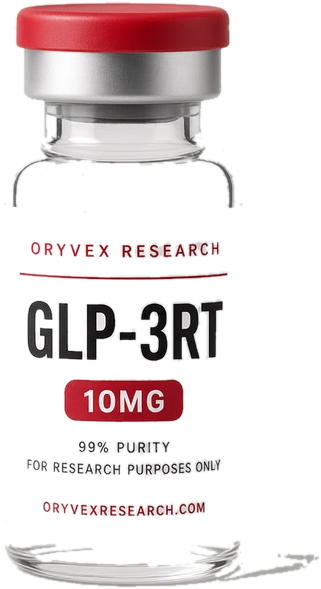
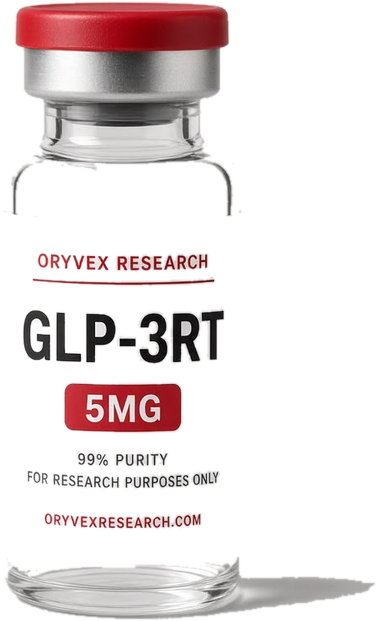
Correct the strength on 20 product labels
Re-rendered set: every label now prints a size the product is actually sold in,
matching the first entry of its price ladder. Adamax also gains a photo, so all
47 SKUs are on the current vial design.

  adamax 5MG · ahk-cu 100MG · cjc-1295-no-dac 5MG · dsip 10MG · epithalon 10MG
  foxo4-dri 10MG · ghk-cu 50MG · glow 70MG · glp-2 10MG · glp-3rt 5MG
  glutathione 600MG · igf1-lr3 1MG · ipamorelin 10MG · kisspeptin 10MG
  klow 80MG · kpv 10MG · n-acetyl-epitalon 5MG · nad-plus 500MG · peg-mgf 2MG
  wolverine-blend 5MG/5MG

Also: a missing source file is no longer reported as MISSING when the cut-out
PNG already exists. WhatsApp download folders get cleared, but the PNGs under
static/images/vials/ are the committed asset — re-running the script should not
imply those products are broken.

Changed region(s): [[0.0, 0.3973, 0.9969, 1.0], [0.0312, 0.0, 0.7165, 0.3667], [0.6542, 0.275, 0.7477, 0.3667]]

diff --git a/scripts/import_photos.py b/scripts/import_photos.py
@@ -29,38 +29,20 @@ MAPPING = {
     # red pumps on the mist applicators, identical label geometry throughout.
     "WhatsApp Unknown 2026-09-08 at 07.41.28/WhatsApp Image 2026-09-08 at 07.39.14.jpeg": "5-amino-1mq",
     "WhatsApp Unknown 2026-09-08 at 07.41.28/WhatsApp Image 2026-09-08 at 07.39.15.jpeg": "bpc-157",
-    "WhatsApp Unknown 2026-09-08 at 07.41.28/WhatsApp Image 2026-09-08 at 07.39.16.jpeg": "ahk-cu",
     "WhatsApp Unknown 2026-09-08 at 07.41.28/WhatsApp Image 2026-09-08 at 07.39.17.jpeg": "ara-290",
     "WhatsApp Unknown 2026-09-08 at 07.41.28/WhatsApp Image 2026-09-08 at 07.39.18.jpeg": "bacteriostatic-water",
     "WhatsApp Unknown 2026-09-08 at 07.41.28/WhatsApp Image 2026-09-08 at 07.39.19.jpeg": "bpc-157-mist-applicator",
-    "WhatsApp Unknown 2026-09-08 at 07.41.28/WhatsApp Image 2026-09-08 at 07.39.20 (1).jpeg": "cjc-1295-no-dac",
     "WhatsApp Unknown 2026-09-08 at 07.41.28/WhatsApp Image 2026-09-08 at 07.39.20 (2).jpeg": "cjc-1295-ipamorelin",
     "WhatsApp Unknown 2026-09-08 at 07.41.28/WhatsApp Image 2026-09-08 at 07.39.20.jpeg": "cagrilintide",
-    "WhatsApp Unknown 2026-09-08 at 07.41.28/WhatsApp Image 2026-09-08 at 07.39.21 (1).jpeg": "foxo4-dri",
-    "WhatsApp Unknown 2026-09-08 at 07.41.28/WhatsApp Image 2026-09-08 at 07.39.21 (2).jpeg": "ghk-cu",
-    "WhatsApp Unknown 2026-09-08 at 07.41.28/WhatsApp Image 2026-09-08 at 07.39.21 (3).jpeg": "glow",
-    "WhatsApp Unknown 2026-09-08 at 07.41.28/WhatsApp Image 2026-09-08 at 07.39.21.jpeg": "epithalon",
-    "WhatsApp Unknown 2026-09-08 at 07.41.28/WhatsApp Image 2026-09-08 at 07.39.22 (1).jpeg": "glp-2",
-    "WhatsApp Unknown 2026-09-08 at 07.41.28/WhatsApp Image 2026-09-08 at 07.39.22 (2).jpeg": "glp-3rt",
-    "WhatsApp Unknown 2026-09-08 at 07.41.28/WhatsApp Image 2026-09-08 at 07.39.22 (3).jpeg": "glutathione",
     "WhatsApp Unknown 2026-09-08 at 07.41.28/WhatsApp Image 2026-09-08 at 07.39.22.jpeg": "glp-1t",
     "WhatsApp Unknown 2026-09-08 at 07.41.28/WhatsApp Image 2026-09-08 at 07.39.23 (1).jpeg": "dsip-mist-applicator",
-    "WhatsApp Unknown 2026-09-08 at 07.41.28/WhatsApp Image 2026-09-08 at 07.39.23 (2).jpeg": "igf1-lr3",
-    "WhatsApp Unknown 2026-09-08 at 07.41.28/WhatsApp Image 2026-09-08 at 07.39.23 (3).jpeg": "ipamorelin",
-    "WhatsApp Unknown 2026-09-08 at 07.41.28/WhatsApp Image 2026-09-08 at 07.39.23 (4).jpeg": "kisspeptin",
-    "WhatsApp Unknown 2026-09-08 at 07.41.28/WhatsApp Image 2026-09-08 at 07.39.23.jpeg": "dsip",
-    "WhatsApp Unknown 2026-09-08 at 07.41.28/WhatsApp Image 2026-09-08 at 07.39.24 (1).jpeg": "kpv",
     "WhatsApp Unknown 2026-09-08 at 07.41.28/WhatsApp Image 2026-09-08 at 07.39.24 (2).jpeg": "kpv-mist-applicator",
     "WhatsApp Unknown 2026-09-08 at 07.41.28/WhatsApp Image 2026-09-08 at 07.39.24 (3).jpeg": "ll-37",
-    "WhatsApp Unknown 2026-09-08 at 07.41.28/WhatsApp Image 2026-09-08 at 07.39.24.jpeg": "klow",
     "WhatsApp Unknown 2026-09-08 at 07.41.28/WhatsApp Image 2026-09-08 at 07.39.25 (1).jpeg": "mt-1",
     "WhatsApp Unknown 2026-09-08 at 07.41.28/WhatsApp Image 2026-09-08 at 07.39.25 (2).jpeg": "mt-2",
     "WhatsApp Unknown 2026-09-08 at 07.41.28/WhatsApp Image 2026-09-08 at 07.39.25 (3).jpeg": "mt-2-mist-applicator",
     "WhatsApp Unknown 2026-09-08 at 07.41.28/WhatsApp Image 2026-09-08 at 07.39.25.jpeg": "mots-c",
-    "WhatsApp Unknown 2026-09-08 at 07.41.28/WhatsApp Image 2026-09-08 at 07.39.26 (1).jpeg": "nad-plus",
-    "WhatsApp Unknown 2026-09-08 at 07.41.28/WhatsApp Image 2026-09-08 at 07.39.26 (2).jpeg": "peg-mgf",
     "WhatsApp Unknown 2026-09-08 at 07.41.28/WhatsApp Image 2026-09-08 at 07.39.26 (3).jpeg": "pinealon",
-    "WhatsApp Unknown 2026-09-08 at 07.41.28/WhatsApp Image 2026-09-08 at 07.39.26.jpeg": "n-acetyl-epitalon",
     "WhatsApp Unknown 2026-09-08 at 07.41.28/WhatsApp Image 2026-09-08 at 07.39.27 (1).jpeg": "pt-141-mist-applicator",
     "WhatsApp Unknown 2026-09-08 at 07.41.28/WhatsApp Image 2026-09-08 at 07.39.27 (2).jpeg": "selank",
     "WhatsApp Unknown 2026-09-08 at 07.41.28/WhatsApp Image 2026-09-08 at 07.39.27 (3).jpeg": "selank-mist-applicator",
@@ -71,8 +53,30 @@ MAPPING = {
     "WhatsApp Unknown 2026-09-08 at 07.41.28/WhatsApp Image 2026-09-08 at 07.39.28.jpeg": "semax",
     "WhatsApp Unknown 2026-09-08 at 07.41.28/WhatsApp Image 2026-09-08 at 07.39.29 (1).jpeg": "tesamorelin",
     "WhatsApp Unknown 2026-09-08 at 07.41.28/WhatsApp Image 2026-09-08 at 07.39.29 (2).jpeg": "thymosin-alpha-1",
-    "WhatsApp Unknown 2026-09-08 at 07.41.28/WhatsApp Image 2026-09-08 at 07.39.29 (3).jpeg": "wolverine-blend",
     "WhatsApp Unknown 2026-09-08 at 07.41.28/WhatsApp Image 2026-09-08 at 07.39.29.jpeg": "tb-500",
+
+    # ── Sep 8, 08.44 re-render: corrected strengths. Supersedes the 07.39
+    #    takes for these 20 slugs; every label verified against the ladder.
+    "WhatsApp Image 2026-09-08 at 08.44.39 (1).jpeg": "ahk-cu",                        # 100MG
+    "WhatsApp Image 2026-09-08 at 08.44.39 (2).jpeg": "cjc-1295-no-dac",               # 5MG
+    "WhatsApp Image 2026-09-08 at 08.44.39.jpeg": "adamax",                        # 5MG
+    "WhatsApp Image 2026-09-08 at 08.44.40 (1).jpeg": "epithalon",                     # 10MG
+    "WhatsApp Image 2026-09-08 at 08.44.40 (2).jpeg": "foxo4-dri",                     # 10MG
+    "WhatsApp Image 2026-09-08 at 08.44.40 (3).jpeg": "ghk-cu",                        # 50MG
+    "WhatsApp Image 2026-09-08 at 08.44.40.jpeg": "dsip",                          # 10MG
+    "WhatsApp Image 2026-09-08 at 08.44.41 (1).jpeg": "glp-2",                         # 10MG
+    "WhatsApp Image 2026-09-08 at 08.44.41 (2).jpeg": "glp-3rt",                       # 5MG
+    "WhatsApp Image 2026-09-08 at 08.44.41 (3).jpeg": "glutathione",                   # 600MG
+    "WhatsApp Image 2026-09-08 at 08.44.41.jpeg": "glow",                          # 70MG
+    "WhatsApp Image 2026-09-08 at 08.44.42 (1).jpeg": "ipamorelin",                    # 10MG
+    "WhatsApp Image 2026-09-08 at 08.44.42 (2).jpeg": "kisspeptin",                    # 10MG
+    "WhatsApp Image 2026-09-08 at 08.44.42 (3).jpeg": "klow",                          # 80MG
+    "WhatsApp Image 2026-09-08 at 08.44.42.jpeg": "igf1-lr3",                      # 1MG
+    "WhatsApp Image 2026-09-08 at 08.44.43 (1).jpeg": "n-acetyl-epitalon",             # 5MG
+    "WhatsApp Image 2026-09-08 at 08.44.43 (2).jpeg": "nad-plus",                      # 500MG
+    "WhatsApp Image 2026-09-08 at 08.44.43.jpeg": "kpv",                           # 10MG
+    "WhatsApp Image 2026-09-08 at 08.44.44 (1).jpeg": "wolverine-blend",               # 5MG/5MG
+    "WhatsApp Image 2026-09-08 at 08.44.44.jpeg": "peg-mgf",                       # 2MG
 }
 
 MAXDIM = 900          # cap output size
@@ -207,7 +211,13 @@ def main():
             continue
         src = os.path.join(SRC, fname)
         if not os.path.exists(src):
-            print(f"  MISSING {fname}")
+            # Sources are transient (WhatsApp downloads get cleared out); the
+            # cut-out PNGs under static/images/vials/ are the committed asset,
+            # so a missing source is only a note, not a failure.
+            if os.path.exists(os.path.join(OUT, f"{slug}.png")):
+                print(f"  skip    {slug:24} (source gone, existing PNG kept)")
+            else:
+                print(f"  MISSING {slug:24} ← {fname}")
             continue
         img = process(src, slug)
         dest = os.path.join(OUT, f"{slug}.png")

diff --git a/docs-reshoot-prompt.md b/docs-reshoot-prompt.md
@@ -1,0 +1,73 @@
+# Re-render prompt — 20 vials with corrected strengths
+
+Paste the whole block below into Grok as one message.
+
+---
+
+I need 20 separate product photographs. Every image is identical in style — only
+the two label lines change. Generate them one at a time, in order, and label each
+result with its number so I can match them up.
+
+STYLE (identical for all 20):
+
+Professional e-commerce product photograph of a single small pharmaceutical
+glass vial standing upright, centred, shot straight on at eye level.
+
+The vial: clear glass body, brushed silver aluminium flip-off cap with a deep
+red plastic top, roughly 3cm tall, with a matte white paper label wrapped
+around it.
+
+The label, top to bottom, all text sharp and perfectly legible:
+  - "ORYVEX RESEARCH" in small crimson letter-spaced uppercase at the top
+  - a thin crimson rule beneath it
+  - the COMPOUND NAME large, bold, black, uppercase, centred
+  - the STRENGTH in white on a small crimson rounded badge directly below
+  - "99% PURITY" and "FOR RESEARCH PURPOSES ONLY" in tiny grey uppercase
+  - "ORYVEXRESEARCH.COM" in small crimson uppercase along the bottom edge
+
+Lighting: soft even studio light from the upper left, gentle specular highlight
+down the left side of the glass, soft contact shadow beneath the vial.
+Background: flat light warm-grey seamless (#ECECEC), no gradient, no props,
+no hands, no text outside the label.
+
+Square 1:1, centred with generous margin, product occupies ~70% of the frame.
+Photorealistic, commercial catalogue style, tack sharp, high detail, 4K.
+
+Avoid: blurry or warped text, misspelled text, extra vials, hands, people,
+syringes, needles, pills, other brand names, logos, watermarks, busy or
+gradient background, tilted vial, cropped label.
+
+THE 20 IMAGES — use exactly these two lines on each label:
+
+ 1.  ADAMAX               —  5MG
+ 2.  AHK-CU               —  100MG
+ 3.  CJC-1295 (NO DAC)    —  5MG
+ 4.  DSIP                 —  10MG
+ 5.  EPITHALON            —  10MG
+ 6.  FOXO4-DRI            —  10MG
+ 7.  GHK-CU               —  50MG
+ 8.  GLOW                 —  70MG
+ 9.  GLP-2                —  10MG
+10.  GLP-3RT              —  5MG
+11.  GLUTATHIONE          —  600MG
+12.  IGF1-LR3             —  1MG
+13.  IPAMORELIN           —  10MG
+14.  KISSPEPTIN           —  10MG
+15.  KLOW                 —  80MG
+16.  KPV                  —  10MG
+17.  N-ACETYL EPITALON    —  5MG
+18.  NAD+                 —  500MG
+19.  PEG-MGF              —  2MG
+20.  WOLVERINE BLEND      —  5MG/5MG
+
+Spelling matters — copy the names exactly as written, including the hyphens,
+the "+" in NAD+, the brackets in CJC-1295 (NO DAC), and the slash in the
+WOLVERINE BLEND strength (5MG/5MG, not 5MG).
+
+---
+
+Drop the results into `~/Downloads/oryvex/` and they get installed with:
+
+```bash
+cd /home/yenchi/labs/oryvex && python3 scripts/import_photos.py
+```
